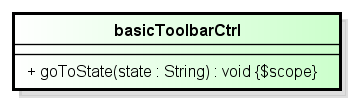
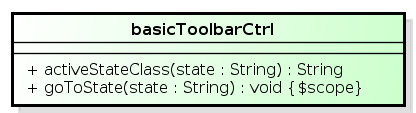
sistemato trail editor e editor

diff --git a/Definizione di Prodotto/documents/editor.tex b/Definizione di Prodotto/documents/editor.tex
@@ -16,6 +16,20 @@
 	Template della vista associata allo \textit{\$scope} di \textit{editorCtrl}. Fornisce uno scheletro per le altre viste dedicate alla gestione dell'editor. 
 \end{description}
 
+%-------  diagramma di un template %
+\subsubsection{premi/client/editor/views/basicToolbar.ng}
+
+\begin{description}
+%-------  descrizione del template%
+\item[Descrizione] \hfill
+	Template della vista associata allo \textit{\$scope} di \textit{basicToolbar}. Fornisce il menù per:
+	\begin{itemize}
+	\item accedere al frameEditor;
+	\item accedere all'infographicEditor;
+	\item accedere al trail Editor.
+	\end{itemize}
+\end{description}
+
 
 \subsubsection{premi/client/editor/controllers/editorCtrl}
 \begin{figure}[H]
@@ -29,6 +43,73 @@
 %-------  descrizione della classe%
 \item[Descrizione] \hfill
 	Questo controller non è al momento provvisto di funzionalità. Si appoggia alla vista associata \textit{editor.ng}, la quale funge da scheletro per le viste necessarie alla gestione dei vari editor a disposizione dell'utente. 
+\end{description}
+
+%-------  diagramma della classe%
+\subsubsection{premi/client/editor/controllers/basicToolbarCtrl}
+\begin{figure}[H]
+\begin{center}
+\includegraphics[scale=0.85]{img/diacla/basicToolbarCtrl.png}
+\caption{Diagramma della classe premi/editor/controllers/basicToolbarCtrl}
+\end{center}
+\end{figure}
+
+
+\begin{description}
+%-------  descrizione della classe%
+\item[Descrizione] \hfill
+	Controller della view \textit{basicToolbar.ng}. Fornisce, tramite lo \textit{\$scope} un metodo per passaggio da un editor all'altro
+	\\ La dicitura \{\$scope\} nel diagramma UML$_G$ indica che:
+\begin{itemize}
+\item tutti gli attributi e i metodi pubblici del controller vanno inseriti nello \$scope;
+\item tutti gli attributi e i metodi privati del controller appartengono al controller.
+\end{itemize}
+Vedere la sezione \ref{servizi} per approfondimenti sull'oggetto \$scope.
+	
+%-------  lista dei metodi%	
+\item[Metodi] \hfill
+
+	% -- inizio metodo -- %
+	\begin{description}
+		\item[\textbf{\color{blue}+ goToState(state : String) : void			}] \hfill
+			Tramite il metodo \textit{\$state.go} cambia "stato" dell'editor, passando da una fase di creazione della presentazione all'altra.
+			
+		\begin{description}
+			% -- lista argomenti del metodo -- %
+			\item[Argomenti] \hfill
+				\begin{itemize}
+				
+					\item \textbf{state : String			} \hfill
+					Il nuovo stato dell'editor. Gli stati dell'editor al momento sono:
+					\begin{itemize}
+						\item "premi.editor.frame"
+						\item "premi.editor.infographic"
+						\item "premi.editor.trails"
+					\end{itemize}
+					
+				\end{itemize}
+		\end{description}
+	\end{description}
+	% -- fine metodo -- %
+	
+	% -- inizio metodo -- %
+	\begin{description}
+		\item[\textbf{\color{blue}+ activeStateClass(state : String) : String			}] \hfill
+			Verifica se un determinato stato è attivo. Restituisce "active" nel caso lo stato sia attivo altrimenti restituisce una stringa vuota.
+			
+		\begin{description}
+			% -- lista argomenti del metodo -- %
+			\item[Argomenti] \hfill
+				\begin{itemize}
+				
+					\item \textbf{state : String			} \hfill
+					identifica il nome dello stato da controllare.
+					
+				\end{itemize}
+		\end{description}
+	\end{description}
+	% -- fine metodo -- %	
+		
 \end{description}
 
 

diff --git a/Definizione di Prodotto/documents/trailsEditor.tex b/Definizione di Prodotto/documents/trailsEditor.tex
@@ -8,20 +8,6 @@
 \end{figure}
 
 %-------  diagramma di un template %
-\subsubsection{premi/client/trailsEditor/views/basicToolbar.ng}
-
-\begin{description}
-%-------  descrizione del template%
-\item[Descrizione] \hfill
-	Template della vista associata allo \textit{\$scope} di \textit{basicToolbarCtrl}. Fornisce una toolbar per la navigazione tra le varie fasi della modifica della presentazione
-\item[Note] \hfill
-	\begin{itemize}
-			\item Deve possedere un bottone per ogni fase dell'editor (Gestione Frame, Gestione Infografica e Gestione Trail)
-			\item Deve possedere un bottone per l'uscita dall'editor
-	\end{itemize}
-\end{description}
-
-%-------  diagramma di un template %
 \subsubsection{premi/client/trailsEditor/views/editTrail.ng}
 
 \begin{description}
@@ -98,86 +84,51 @@
 	\end{itemize}
 \end{description}
 
-
-
-
-
-
-
-
-
-
-
-
-
-
-
-
-
-
-
-
-
-
-
-
-
-
-
-
-
-
-
-
-
-%-------  diagramma della classe%
-\subsubsection{premi/client/trailsEditor/controllers/basicToolbarCtrl}
-\begin{figure}[H]
-\begin{center}
-\includegraphics[scale=0.85]{img/diacla/basicToolbarCtrl.png}
-\caption{Diagramma della classe premi/client/trailsEditor/controllers/basicToolbarCtrl}
-\end{center}
-\end{figure}
-
+%-------  diagramma di un template %
+\subsubsection{premi/client/trailsEditor/views/removeChkPnt.ng}
 
 \begin{description}
-%-------  descrizione della classe%
+%-------  descrizione del template%
 \item[Descrizione] \hfill
-	Controller della view \textit{basicToolbar.ng}. Fornisce, tramite lo \textit{\$scope} un metodo per passaggio da un editor all'altro
-	\\ La dicitura \{\$scope\} nel diagramma UML$_G$ indica che:
-\begin{itemize}
-\item tutti gli attributi e i metodi pubblici del controller vanno inseriti nello \$scope;
-\item tutti gli attributi e i metodi privati del controller appartengono al controller.
-\end{itemize}
-Vedere la sezione \ref{servizi} per approfondimenti sull'oggetto \$scope.
-	
-%-------  lista dei metodi%	
-\item[Metodi] \hfill
-
-	% -- inizio metodo -- %
-	\begin{description}
-		\item[\textbf{\color{blue}+ goToState(state : String) : void			}] \hfill
-			Tramite il metodo \textit{\$state.go} cambia "stato" dell'editor, passando da una fase di creazione della presentazione all'altra.
-			
-		\begin{description}
-			% -- lista argomenti del metodo -- %
-			\item[Argomenti] \hfill
-				\begin{itemize}
-				
-					\item \textbf{state : String			} \hfill
-					Il nuovo stato dell'editor. Gli stati dell'editor al momento sono:
-					\begin{itemize}
-						\item "premi.editor.frame"
-						\item "premi.editor.infographic"
-						\item "premi.editor.trails"
-					\end{itemize}
-					
-				\end{itemize}
-		\end{description}
-	\end{description}
-	% -- fine metodo -- %	
-		
+	Template della vista associata allo \textit{\$scope} di \textit{removeChkPnt}. Fornisce all'utente i comandi per la rimozione di un checkpoint.
+\item[Note] \hfill
+	\begin{itemize}
+			\item Mostra un messaggio di conferma eliminazione del checkpoint
+			\item Possiede un bottone associato al metodo \textit{remove()} dello \textit{\$scope} confermare la rimozione
+			\item Possiede un bottone associato al metodo \textit{discard()} dello \textit{\$scope} per annullare il processo di rimozione del checkpoint
+	\end{itemize}
 \end{description}
+
+
+
+
+
+
+
+
+
+
+
+
+
+
+
+
+
+
+
+
+
+
+
+
+
+
+
+
+
+
+
 
 
 
